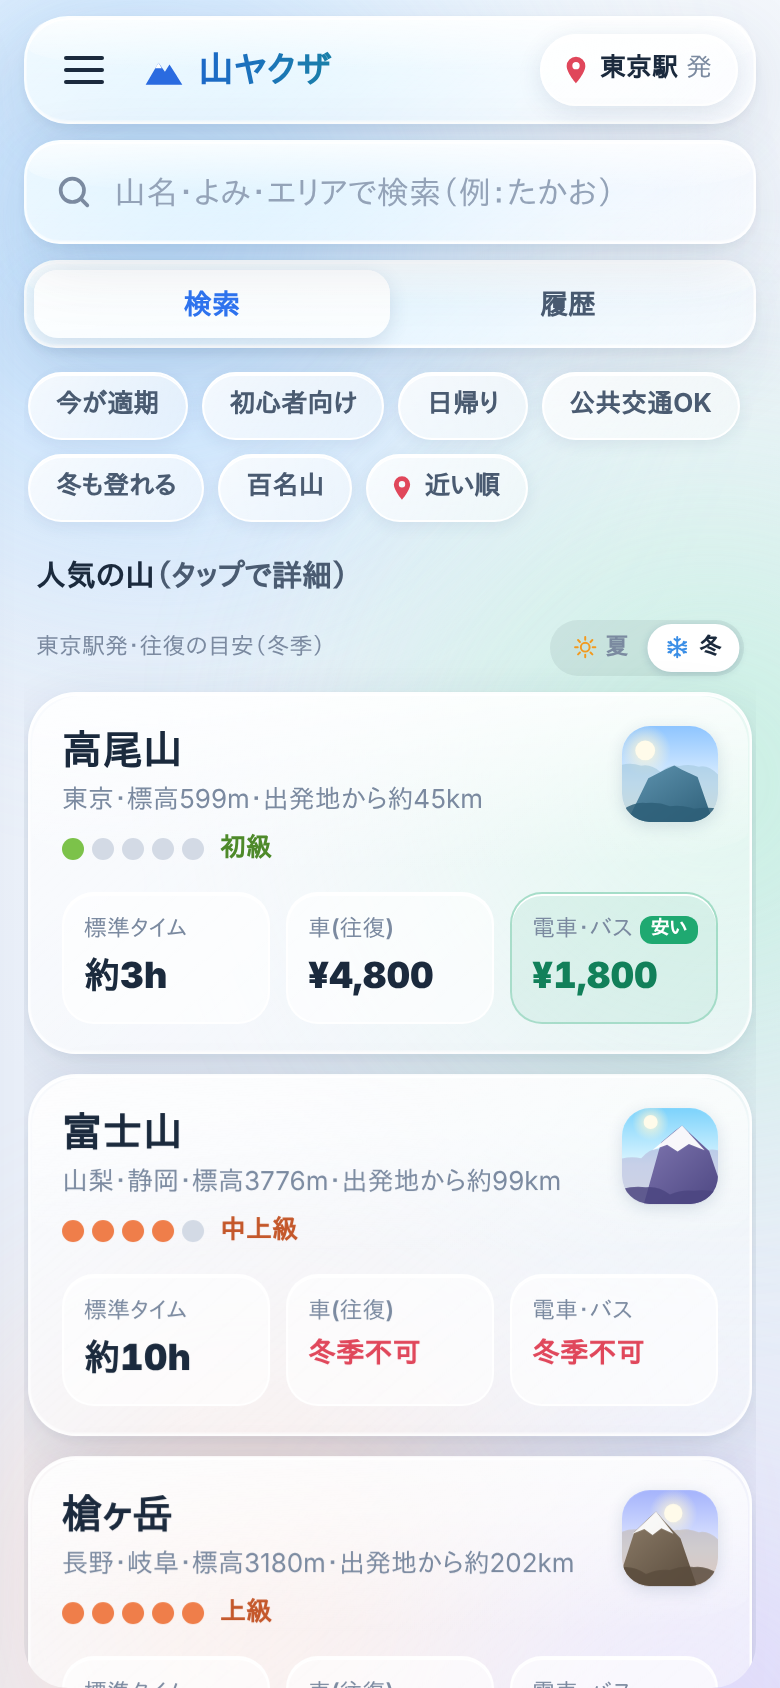
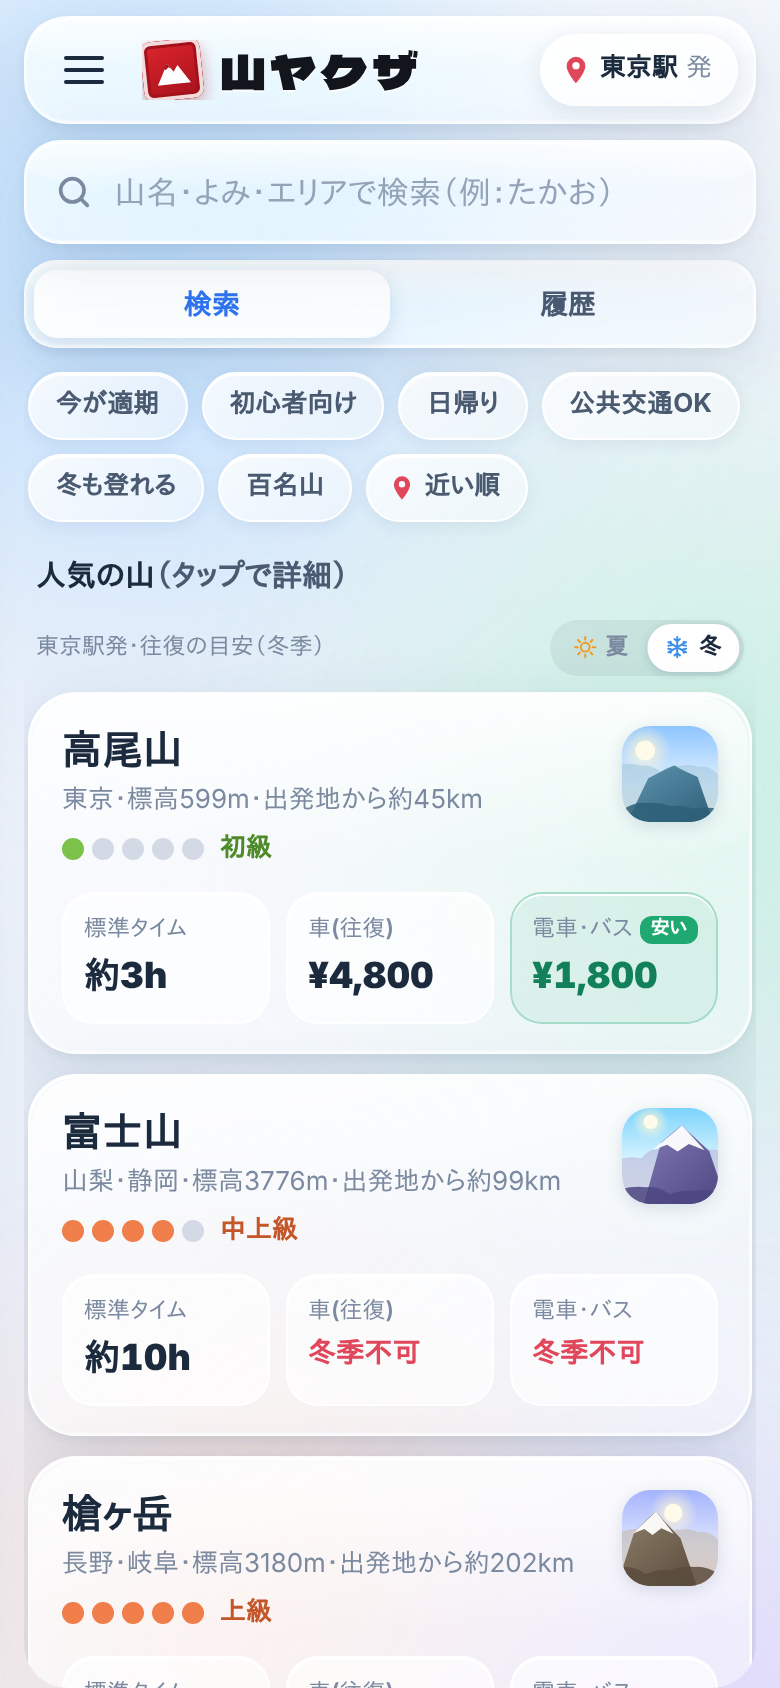
ロゴ「山ヤクザ」をいかつく：極太書体と朱の角印
- ロゴ文字に Dela Gothic One（OFL）をロゴの4文字だけに切り出して同梱（約1KB）
- 墨色の極太文字＋朱色の角印（白抜きの山）に変更、ファビコンも角印に統一
- メニュー上部のロゴも同じデザインに

Claude-Session: https://claude.ai/code/session_017srsqCqyUnvrGkJVuN8LTR

Changed region(s): [[0.1846, 0.0, 0.5538, 0.0616]]

diff --git a/public/index.html b/public/index.html
@@ -7,6 +7,7 @@
 <meta name="description" content="山ヤクザ：全国の山を一瞬で検索。登山指数（A/B/C）、出発地からの地図・往復交通費・移動時間をまとめて確認できる登山計画アプリ。">
 <title>山ヤクザ</title>
 <link rel="icon" href="icon.svg" type="image/svg+xml">
+<link rel="preload" href="fonts/dela-gothic-one-brand.woff2" as="font" type="font/woff2" crossorigin>
 <link rel="stylesheet" href="css/app.css">
 <link rel="modulepreload" href="js/app.js">
 </head>
@@ -18,7 +19,7 @@
     <button id="menuBtn" class="icon-btn hamburger rp" type="button" aria-label="メニューを開く" aria-expanded="false" aria-controls="drawer">
       <span></span><span></span><span></span>
     </button>
-    <h1 class="brand"><svg viewBox="0 0 24 24" aria-hidden="true"><path d="M2 20 9 8l3.5 5L15 9l7 11z" fill="currentColor"/><path d="m9 8 1.8 3H7.2z" fill="#fff"/></svg>山ヤクザ</h1>
+    <h1 class="brand"><span class="brand-seal" aria-hidden="true"><svg viewBox="0 0 24 24"><path d="M2.5 19.5 9 7.5l3.2 5 2.6-3.6 6.7 10.6z" fill="#fff"/><path d="m9 7.5 1.9 3-1.4-.8-1.6 1.3-.9-.4z" fill="#a3111b"/></svg></span><span class="brand-text">山ヤクザ</span></h1>
     <button id="originChip" class="origin-chip glass-chip rp" type="button" aria-haspopup="dialog" aria-controls="originSheet">
       <svg viewBox="0 0 24 24" aria-hidden="true"><path d="M12 2a7 7 0 0 0-7 7c0 5 7 13 7 13s7-8 7-13a7 7 0 0 0-7-7Zm0 9.5A2.5 2.5 0 1 1 12 6a2.5 2.5 0 0 1 0 5.5Z" fill="currentColor"/></svg>
       <span class="origin-name" id="originName">東京駅</span><span class="origin-suffix">発</span>
@@ -74,7 +75,7 @@
 <!-- ドロワー -->
 <div class="scrim" id="drawerScrim" hidden></div>
 <aside class="drawer glass" id="drawer" aria-label="メニュー" aria-hidden="true" inert>
-  <div class="drawer-head"><span class="brand">山ヤクザ</span><small>登山計画をもっと手軽に</small></div>
+  <div class="drawer-head"><span class="brand"><span class="brand-seal" aria-hidden="true"><svg viewBox="0 0 24 24"><path d="M2.5 19.5 9 7.5l3.2 5 2.6-3.6 6.7 10.6z" fill="#fff"/><path d="m9 7.5 1.9 3-1.4-.8-1.6 1.3-.9-.4z" fill="#a3111b"/></svg></span><span class="brand-text">山ヤクザ</span></span><small>登山計画をもっと手軽に</small></div>
   <nav class="drawer-nav">
     <button type="button" class="dnav rp" data-act="origin"><span class="dico" data-icon="pin"></span>出発地を設定</button>
     <button type="button" class="dnav rp" data-act="history"><span class="dico" data-icon="clock"></span>履歴</button>

diff --git a/public/css/app.css b/public/css/app.css
@@ -504,3 +504,18 @@ small { font-size: 0.78em; }
 
 /* アプリ名が長くても出発地ボタンと重ならないように */
 .topbar .brand { white-space: nowrap; overflow: hidden; text-overflow: ellipsis; font-size: 18px; letter-spacing: 0.01em; }
+
+/* ロゴ「山ヤクザ」：極太（Dela Gothic One・OFL・ロゴの文字だけ同梱）＋朱の角印 */
+@font-face { font-family: 'YamaBrand'; src: url('../fonts/dela-gothic-one-brand.woff2') format('woff2'); font-display: block; }
+.brand { color: #12151b; background: none; -webkit-background-clip: border-box; background-clip: border-box; gap: 9px; }
+.brand-text { font-family: 'YamaBrand', 'Hiragino Sans', sans-serif; font-weight: 400; font-size: 23px; letter-spacing: 0.1em; line-height: 1;
+  color: #12151b; text-shadow: 0 1px 0 rgba(255, 255, 255, 0.9); overflow: hidden; text-overflow: ellipsis; white-space: nowrap; }
+.brand-seal { flex: none; display: grid; place-items: center; width: 30px; height: 30px; border-radius: 5px; transform: rotate(-6deg);
+  background: linear-gradient(160deg, #e0262f, #a3111b); box-shadow: inset 0 0 0 2px rgba(255, 255, 255, 0.85), inset 0 0 0 3.5px #a3111b, 0 3px 8px rgba(163, 17, 27, 0.35); }
+.topbar .brand { font-size: inherit; letter-spacing: 0; }
+.drawer-head .brand { gap: 10px; }
+.drawer-head .brand-text { font-size: 26px; }
+.drawer-head .brand-seal { width: 34px; height: 34px; font-size: 22px; }
+.brand-seal svg { width: 21px; height: 21px; display: block; }
+.drawer-head .brand-seal svg { width: 24px; height: 24px; }
+.drawer-head .brand { margin-bottom: 10px; }

diff --git a/goal/REPORT.md b/goal/REPORT.md
@@ -1,7 +1,7 @@
 # 山ヤクザ E2E テストレポート
 
-- 実行日時：2026/11/18 10:32:59（JST）
-- 結果：**16/16 合格** ✅（126.8秒）
+- 実行日時：2026/11/18 20:02:14（JST）
+- 結果：**16/16 合格** ✅（146.6秒）
 - ブラウザ：Google Chrome 153.0.8010.12（/usr/bin/google-chrome）・ヘッドレス
 - 端末エミュレーション：390×844 / deviceScaleFactor 2 / isMobile / hasTouch / ja-JP / Asia/Tokyo
 - サーバー：`scripts/dev-server.mjs`（src/worker.js を Node で実行）`MOCK_UPSTREAM=1`（フィクスチャ：goal/fixtures/upstream.json）。テスト14は `MOCK_WEATHER_FAIL=1` のサーバーを使用
@@ -11,22 +11,22 @@
 
 | # | テスト | 結果 | 時間 | 詳細 |
 |---|---|---|---|---|
-| 1 | 起動直後に検索欄へフォーカスし「たかお」で高尾山が先頭 | ✅ PASS | 3.6s |  |
-| 2 | 起動スケルトンが表示されてから消える | ✅ PASS | 1.1s | スケルトン表示〜消失: 約391ms（入力時スケルトン表示中=true） |
-| 3 | 検索：タカオ／takao／八ヶ岳／ふじ／北海道・該当なし・クリア | ✅ PASS | 3.1s | 全219座 |
-| 4 | 絞り込み：初心者向け（難易度2以下）・百名山（100座）・出発地から近い順 | ✅ PASS | 6.6s | 全219座 → 初心者向け100座・百名山100座・近い順の先頭「高尾山」 |
-| 5 | 詳細：スケルトン→難易度・標準タイム・適期12ヶ月・登山指数ABCAB・てんくらリンク | ✅ PASS | 6.3s | 難易度初級・適期6/12・指数ABCAB |
-| 6 | 地図：S/Gマーカー・ルート線・タイル要求・2点が収まる・ドラッグ・ズーム | ✅ PASS | 7.6s | ズーム9・タイル要求18回（ドラッグ後+12）・道路 約61km（目安） |
-| 7 | 交通費：夏→冬で車が上がる・スタッドレス注記・冬季注意・フリック切替 | ✅ PASS | 10.3s | 車 ¥17,230 → ¥17,900（冬） |
-| 8 | 富士山：冬は車・公共交通とも利用不可、夏は通行料の注記 | ✅ PASS | 7.5s |  |
-| 9 | 出発地：まつもと→松本駅でヘッダー・地図・交通費が変化／住所でも設定・リロード後も保持 | ✅ PASS | 11.9s | 槍ヶ岳 車 東京¥21,920→松本¥5,580 / 公共交通 ¥18,440→¥5,320 |
-| 10 | 履歴：開いた順・右フリックでお気に入り・左フリックで削除→元に戻す・タップで詳細 | ✅ PASS | 17.1s |  |
-| 11 | ページャ横フリックでタブ切替（検索⇔履歴）・インジケーター追従 | ✅ PASS | 4.4s | タブ2つ・左右フリックで切替 |
-| 12 | ハンバーガー：開閉・aria-expanded・履歴全削除→元に戻す・説明シート・Esc/背景タップで閉じる | ✅ PASS | 14.3s |  |
-| 13 | ブラウザの戻るで詳細が閉じる・#m-yari の直リンクで詳細が開く | ✅ PASS | 9.8s |  |
-| 14 | 気象APIが落ちてもエラー表示と公式リンクが出る | ✅ PASS | 4.2s |  |
+| 1 | 起動直後に検索欄へフォーカスし「たかお」で高尾山が先頭 | ✅ PASS | 3.0s |  |
+| 2 | 起動スケルトンが表示されてから消える | ✅ PASS | 1.3s | スケルトン表示〜消失: 約452ms（入力時スケルトン表示中=true） |
+| 3 | 検索：タカオ／takao／八ヶ岳／ふじ／北海道・該当なし・クリア | ✅ PASS | 4.0s | 全219座 |
+| 4 | 絞り込み：初心者向け（難易度2以下）・百名山（100座）・出発地から近い順 | ✅ PASS | 9.8s | 全219座 → 初心者向け100座・百名山100座・近い順の先頭「高尾山」 |
+| 5 | 詳細：スケルトン→難易度・標準タイム・適期12ヶ月・登山指数ABCAB・てんくらリンク | ✅ PASS | 7.0s | 難易度初級・適期6/12・指数ABCAB |
+| 6 | 地図：S/Gマーカー・ルート線・タイル要求・2点が収まる・ドラッグ・ズーム | ✅ PASS | 8.6s | ズーム9・タイル要求18回（ドラッグ後+12）・道路 約61km（目安） |
+| 7 | 交通費：夏→冬で車が上がる・スタッドレス注記・冬季注意・フリック切替 | ✅ PASS | 11.5s | 車 ¥17,230 → ¥17,900（冬） |
+| 8 | 富士山：冬は車・公共交通とも利用不可、夏は通行料の注記 | ✅ PASS | 9.4s |  |
+| 9 | 出発地：まつもと→松本駅でヘッダー・地図・交通費が変化／住所でも設定・リロード後も保持 | ✅ PASS | 14.0s | 槍ヶ岳 車 東京¥21,920→松本¥5,580 / 公共交通 ¥18,440→¥5,320 |
+| 10 | 履歴：開いた順・右フリックでお気に入り・左フリックで削除→元に戻す・タップで詳細 | ✅ PASS | 19.5s |  |
+| 11 | ページャ横フリックでタブ切替（検索⇔履歴）・インジケーター追従 | ✅ PASS | 6.7s | タブ2つ・左右フリックで切替 |
+| 12 | ハンバーガー：開閉・aria-expanded・履歴全削除→元に戻す・説明シート・Esc/背景タップで閉じる | ✅ PASS | 16.4s |  |
+| 13 | ブラウザの戻るで詳細が閉じる・#m-yari の直リンクで詳細が開く | ✅ PASS | 10.6s |  |
+| 14 | 気象APIが落ちてもエラー表示と公式リンクが出る | ✅ PASS | 4.8s |  |
 | 15 | Worker API の入出力（health / 400 / weather算出 / geocode / 404 / 405） | ✅ PASS | 0.0s | health/400×7/weather ABCAB+キャッシュHIT/geocode/404/405×3/上流失敗502 |
-| 16 | 詳細・全タブ・bodyで横スクロールがはみ出さない | ✅ PASS | 18.6s |  |
+| 16 | 詳細・全タブ・bodyで横スクロールがはみ出さない | ✅ PASS | 19.8s |  |
 
 ## スクリーンショット（goal/screenshots/）
 

diff --git a/README.md b/README.md
@@ -89,3 +89,4 @@ npx wrangler deploy  # Cloudflare Workers へデプロイ
 - 登山指数は「てんくら基準」を参考にOpen-Meteoの予報から独自に算出したもので、てんきとくらすの公式値ではありません
 - 地図は[地理院タイル](https://maps.gsi.go.jp/development/ichiran.html)、住所検索は国土地理院の住所検索APIを利用しています
 - 登山は自己責任です。天候・装備・体力に合わせて無理のない計画を立ててください
+- ロゴの文字には [Dela Gothic One](https://github.com/syakuzen/DelaGothic)（SIL Open Font License 1.1）を、ロゴに使う4文字だけに切り出して同梱しています（`public/fonts/`、ライセンス文 `public/fonts/DelaGothicOne-OFL.txt`）
